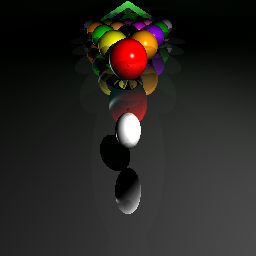
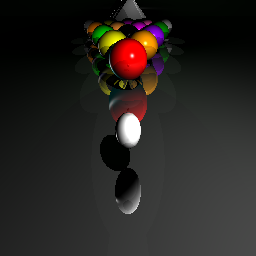
Replace triangle with pyramid

Changed region(s): [[0.375, 0.0, 0.5938, 0.0938]]

diff --git a/hw3.py b/hw3.py
@@ -101,14 +101,22 @@ def your_own_scene():
     table_surface = Plane([0, 1, 0], [0, -0.3, 0])
     table_surface.set_material([0.2, 0.2, 0.2], [0.2, 0.2, 0.2], [1, 1, 1], 1000, 0.5)
 
-    # Adding a triangle behind the 8-ball arrangement
-    triangle = Triangle([-1.5, 0, -4], [1.5, 0, -4], [0, 1, -4])
-    triangle.set_material([0.2, 0.6, 0.2], [0.2, 0.6, 0.2], [0, 0, 0], 100, 0.5)
+    # Adding a pyramid behind the 8-ball arrangement
+    v_list = [
+        [-1, 0, -5],   # A
+        [1, 0, -5],    # B
+        [1, 0, -6],    # C
+        [-1, 0, -6],   # D
+        [0, 1.5, -5.5] # E (apex)
+    ]
+    pyramid = Pyramid(v_list)
+    pyramid.set_material([0.1, 0.1, 0.1], [0.5, 0.5, 0.5], [1, 1, 1], 500, 0.9)
+    pyramid.apply_materials_to_triangles()
 
     background = Plane([0, 0, 1], [0, 0, -10])
     background.set_material([0.2, 0.6, 0.2], [0.2, 0.6, 0.2], [0, 0, 0], 100, 0.5)  # Green background
 
-    objects = [table_surface, background] + balls + [cue_ball, triangle]
+    objects = [table_surface, background] + balls + [cue_ball, pyramid]
 
     pointlight = PointLight(intensity=np.array([1, 1, 1]), position=np.array([1, 1.5, 1]), kc=0.1, kl=0.1, kq=0.1)
     spotlight = SpotLight(intensity=np.array([1, 1, 1]), position=np.array([0, 2, -4.5]), direction=np.array([0, -1, 0]), kc=0.1, kl=0.1, kq=0.1)
@@ -117,3 +125,5 @@ def your_own_scene():
     camera = np.array([0, 1, 1])
 
     return camera, lights, objects
+
+
